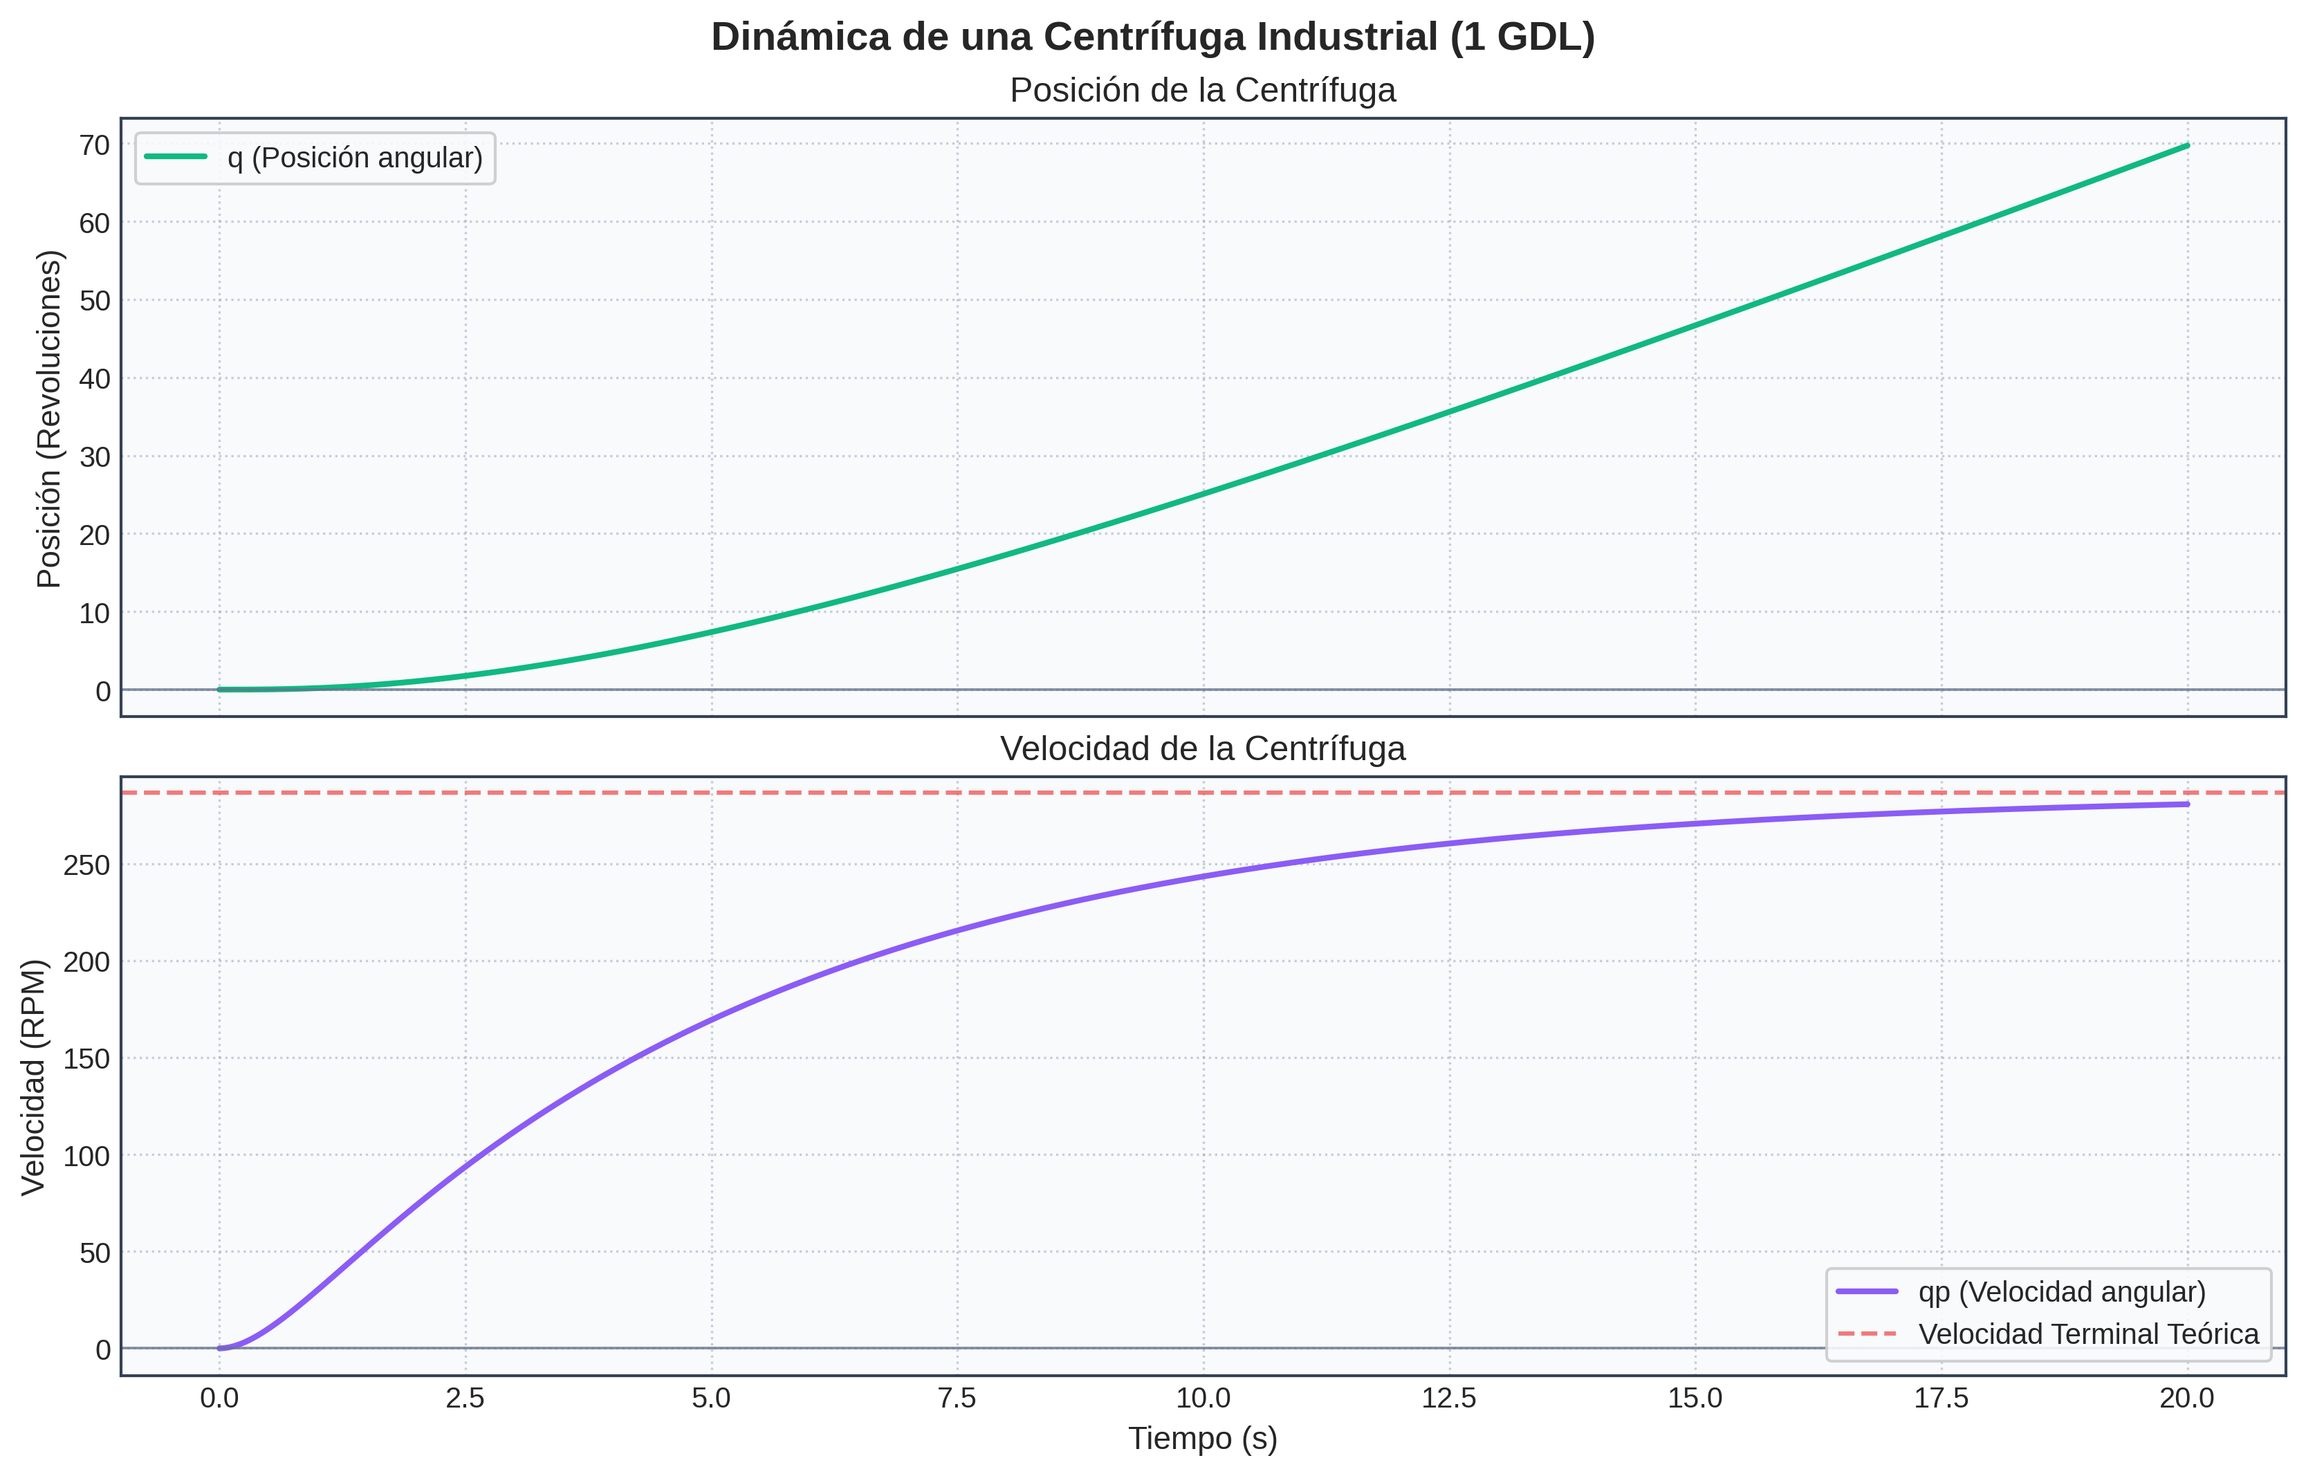
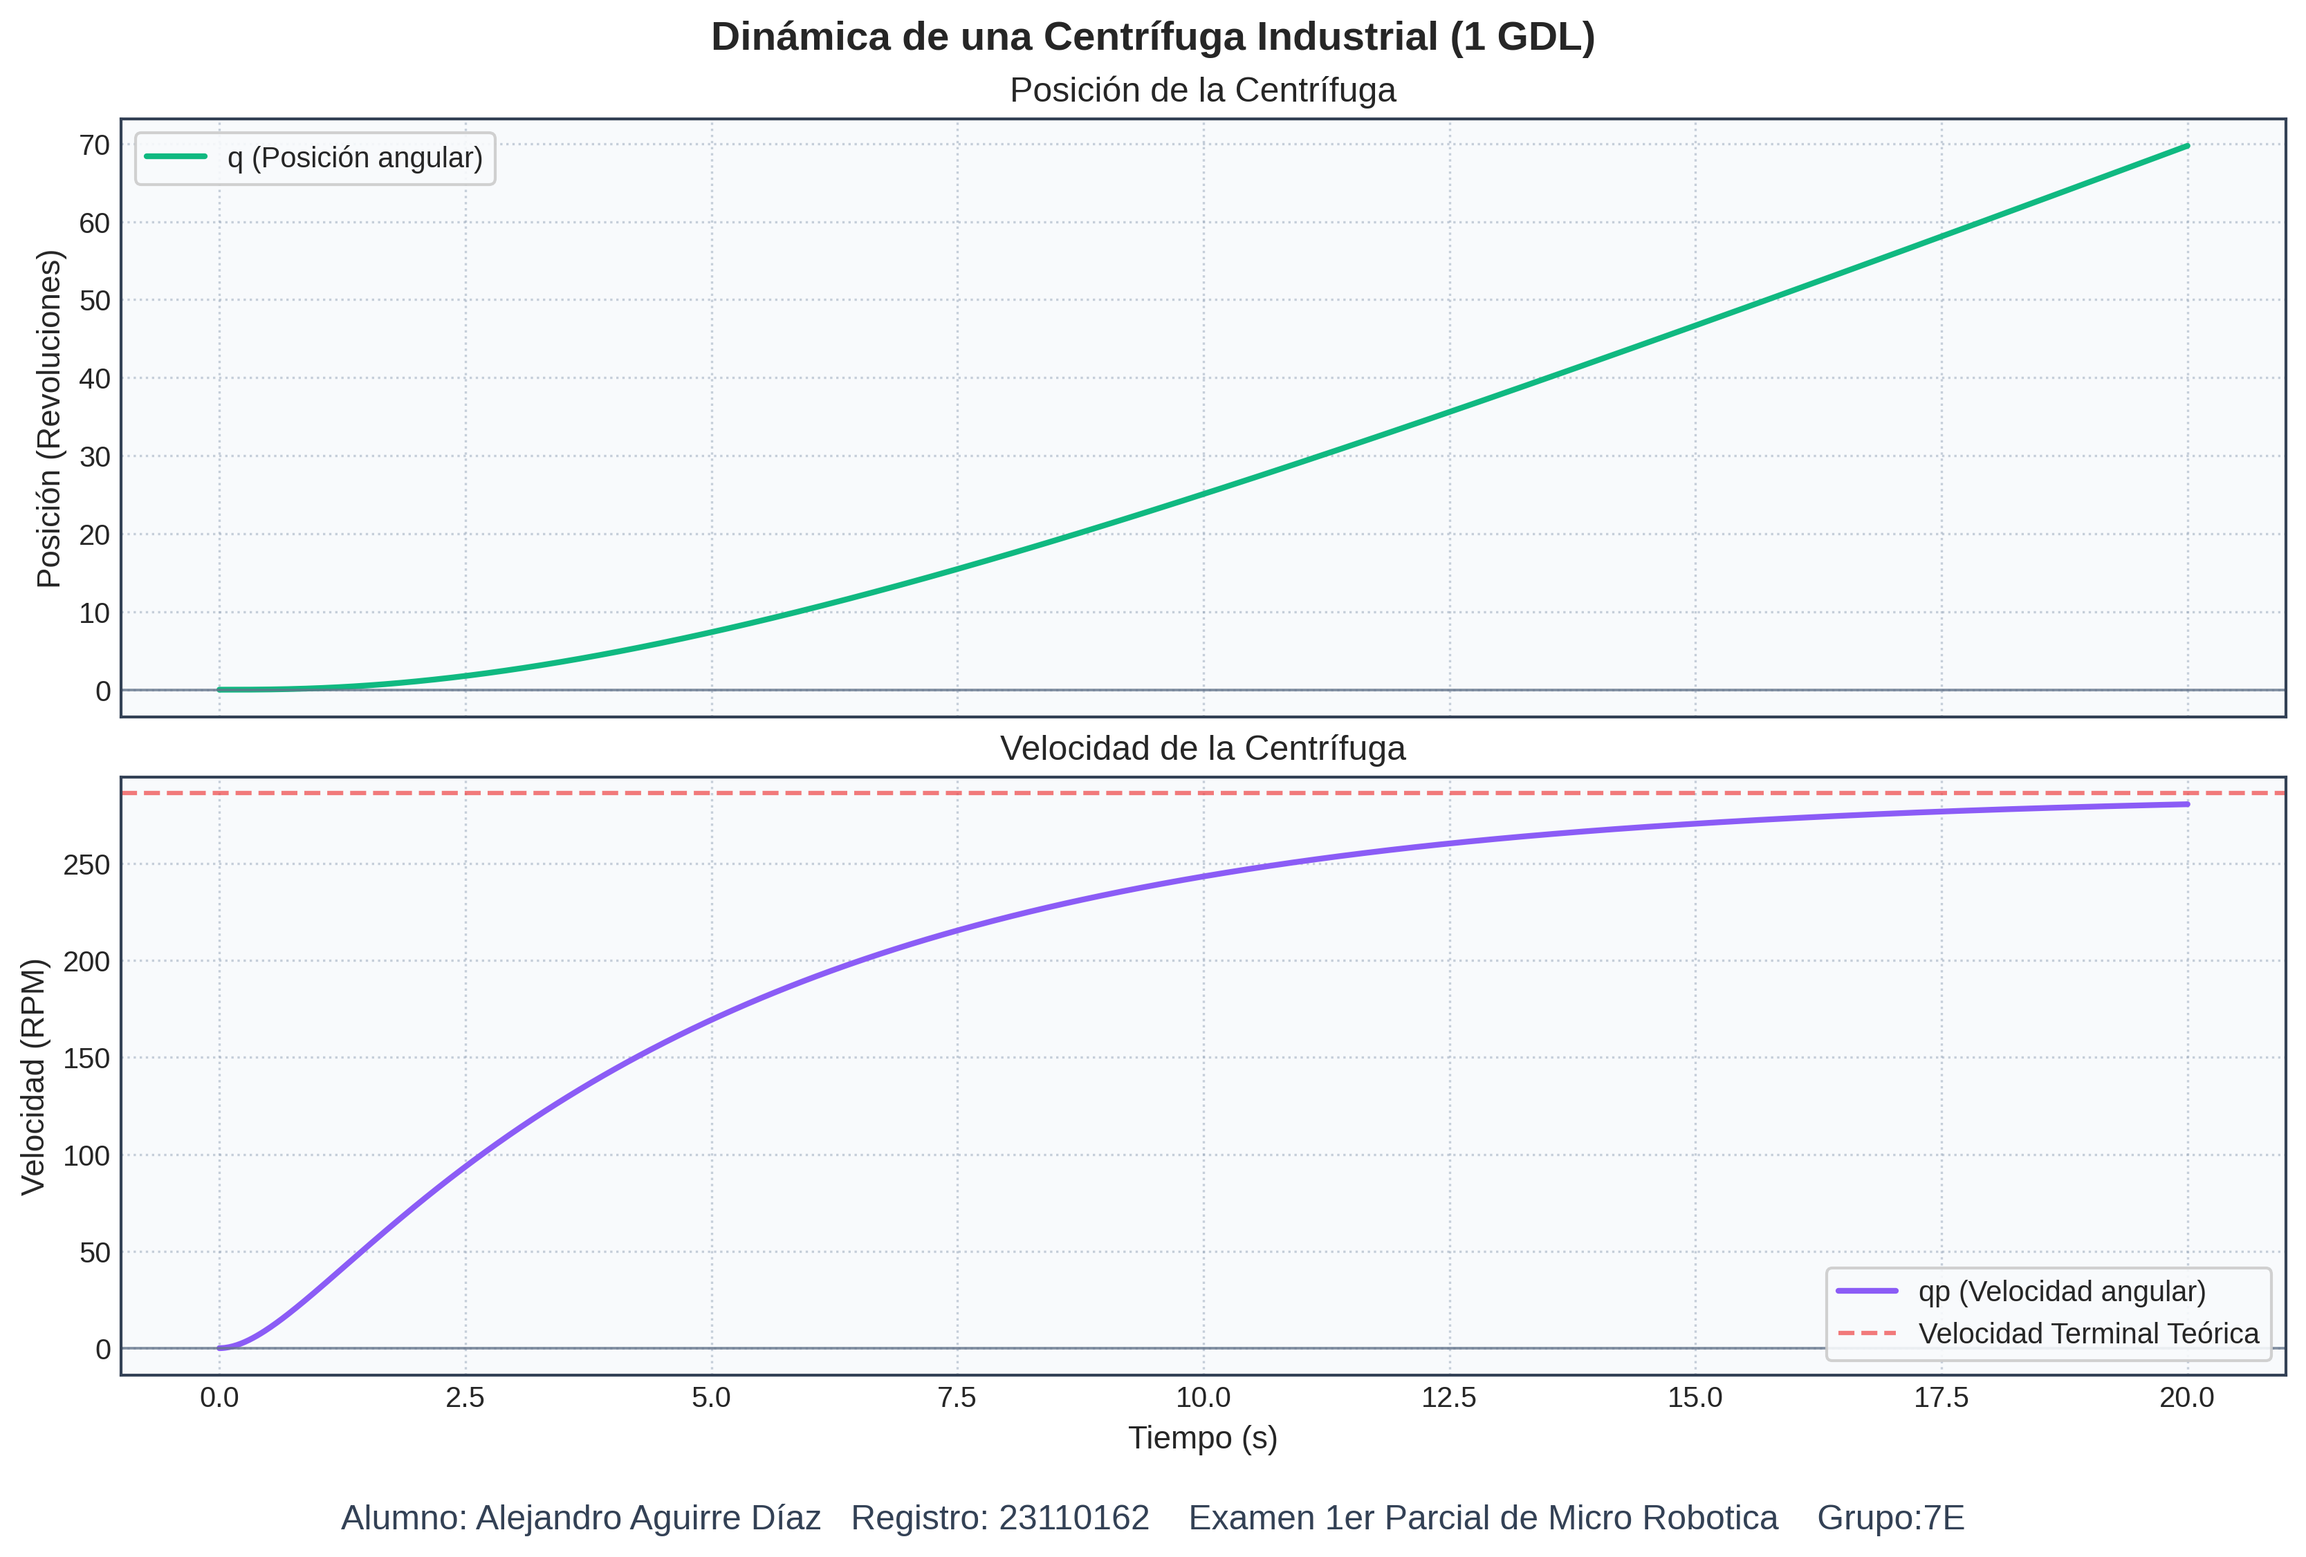
Examen 1.1

diff --git a/Examen_01/Scripts/001_Centrifuga.py b/Examen_01/Scripts/001_Centrifuga.py
@@ -24,6 +24,12 @@ def configurar_estilo_grafica():
         'legend.framealpha': 0.9,
     })
 
+
+def agregar_pie_figura(fig):
+    """Agrega datos de identificacion en la parte inferior de la figura."""
+    pie_texto = "Alumno: Alejandro Aguirre Díaz   Registro: 23110162    Examen 1er Parcial de Micro Robotica    Grupo:7E"
+    fig.text(0.5, -0.05, pie_texto, ha='center', va='bottom', fontsize=12, color='#334155')
+
 # --- 1. Modelo dinámico de la Centrífuga (1 GDL) ---
 def modelo_centrifuga(t, x):
     # Vector de estado: x[0] = posición angular (q), x[1] = velocidad angular (qp)
@@ -90,6 +96,7 @@ ejes[1].set_ylabel('Velocidad (RPM)')
 ejes[1].legend(loc='lower right')
 
 fig.suptitle('Dinámica de una Centrífuga Industrial (1 GDL)', fontsize=14, fontweight='bold')
+agregar_pie_figura(fig)
 
 # --- Guardado Automático ---
 directorio_script = os.path.dirname(os.path.abspath(__file__))

diff --git a/Examen_01/Scripts/003_RR.py b/Examen_01/Scripts/003_RR.py
@@ -25,6 +25,13 @@ def configurar_estilo_grafica():
         'legend.framealpha': 0.9,
     })
 
+
+def agregar_pie_figura(fig):
+    """Agrega datos de identificacion en la parte inferior de la figura."""
+    pie_texto = "Alumno: Alejandro Aguirre Díaz   Registro: 23110162    Examen 1er Parcial de Micro Robotica    Grupo:7E"
+    fig.text(0.5, -0.05, pie_texto, ha='center', va='bottom', fontsize=12, color='#334155')
+
+
 # --- 1. Modelo dinámico del robot 2GDL (Traducción exacta) ---
 def robot_2gdl(t, x):
     # Vector de posición y velocidad articular
@@ -114,6 +121,7 @@ ejes[1].set_ylabel('Velocidad (grados/s)')
 ejes[1].legend(loc='upper right')
 
 fig.suptitle('Dinámica del robot de transmisión directa de 2GDL', fontsize=14, fontweight='bold')
+agregar_pie_figura(fig)
 
 # --- Guardado Automático ---
 directorio_script = os.path.dirname(os.path.abspath(__file__))

diff --git a/Examen_01/Scripts/002_Cartesiano.py b/Examen_01/Scripts/002_Cartesiano.py
@@ -24,6 +24,12 @@ def configurar_estilo_grafica():
         'legend.framealpha': 0.9,
     })
 
+
+def agregar_pie_figura(fig):
+    """Agrega datos de identificacion en la parte inferior de la figura."""
+    pie_texto = "Alumno: Alejandro Aguirre Díaz   Registro: 23110162    Examen 1er Parcial de Micro Robotica    Grupo:7E"
+    fig.text(0.5, -0.05, pie_texto, ha='center', va='bottom', fontsize=12, color='#334155')
+
 # --- 1. Modelo dinámico del Robot Cartesiano 3GDL (PPP) ---
 def robot_cartesiano(t, x_estado):
     # Vector de estado: 
@@ -112,6 +118,7 @@ ejes[1].set_ylabel('Velocidad (m/s)')
 ejes[1].legend(loc='lower left')
 
 fig.suptitle('Dinámica de un Robot Cartesiano de 3 GDL (PPP)', fontsize=14, fontweight='bold')
+agregar_pie_figura(fig)
 
 # --- Guardado Automático ---
 directorio_script = os.path.dirname(os.path.abspath(__file__))

diff --git a/Examen_01/Scripts/004_RRR.py b/Examen_01/Scripts/004_RRR.py
@@ -24,6 +24,12 @@ def configurar_estilo_grafica():
         'legend.framealpha': 0.9,
     })
 
+
+def agregar_pie_figura(fig):
+    """Agrega datos de identificacion en la parte inferior de la figura."""
+    pie_texto = "Alumno: Alejandro Aguirre Díaz   Registro: 23110162    Examen 1er Parcial de Micro Robotica    Grupo:7E"
+    fig.text(0.5, -0.05, pie_texto, ha='center', va='bottom', fontsize=12, color='#334155')
+
 # --- 1. Modelo dinámico del robot 3GDL (Planar RRR) ---
 def robot_3gdl(t, x):
     # Vector de estado
@@ -128,6 +134,7 @@ ejes[1].set_ylabel('Velocidad (grados/s)')
 ejes[1].legend(loc='upper right')
 
 fig.suptitle('Dinámica de un Robot Planar de 3 GDL (RRR)', fontsize=14, fontweight='bold')
+agregar_pie_figura(fig)
 
 # --- Guardado Automático ---
 directorio_script = os.path.dirname(os.path.abspath(__file__))

diff --git a/Examen_01/README.md b/Examen_01/README.md
@@ -1,10 +1,19 @@
-# Examen 01 - Modelado dinamico de robots
+# Examen del Primer Parcial - Modelado Dinamico de Robots
 
-Este directorio dentro del repositorio MicroRobotica, contiene los 4 ejercicios del Examen del 1er parcial, en dondce para cada uno se realizo su modelado dinamico y simulacion numerica en Python. Cada script genera una figura y/o imagen en la carpeta `Graficas/`.
+## Datos del estudiante
 
-## Descripcion del examen 1er parcial
+|  |  |
+|---|---|
+| Alumno | Alejandro Aguirre Díaz |
+| Registro | 23110162 |
+| Grupo | 7E |
+| Fecha de entrega | Miercoles 18 de marzo de 2026 |
 
-Documentar y reproducir el modelo dinamico de:
+Este directorio del repositorio MicroRobotica contiene los 4 ejercicios del examen del primer parcial. En cada ejercicio se realiza el modelado dinamico y la simulacion numerica en Python para obtener sus graficas de comportamiento.
+
+## Descripcion del examen
+
+Realizar y graficar el modelo dinamico de:
 
 1. Centrifuga industrial (1 GDL)
 2. Robot cartesiano PPP (3 GDL)
@@ -133,7 +142,7 @@ $$
 
 ![Dinamica de la centrifuga industrial](Graficas/G001_Centrifuga.png)
 
-### Que se observa
+### Observaciones principales
 
 - La posicion angular crece de forma monotona, indicando giro continuo sin invertir sentido.
 - La velocidad en RPM sube rapidamente durante el transitorio y luego se acerca a un valor de equilibrio.
@@ -226,7 +235,7 @@ $$
 
 ![Dinamica del robot cartesiano PPP](Graficas/G002_Cartesiano.png)
 
-### Que se observa
+### Observaciones principales
 
 - El eje X muestra oscilaciones alrededor del origen por la fuerza sinusoidal aplicada y la amortiguacion viscosa.
 - El eje Y presenta una respuesta de crecimiento transitorio y estabilizacion progresiva, consistente con una excitacion que se activa suavemente.
@@ -315,7 +324,7 @@ $$
 
 ![Dinamica del robot RR de 2 GDL](Graficas/G003_RR.png)
 
-### Que se observa
+### Observaciones principales
 
 - Las posiciones articulares muestran oscilaciones no lineales con contenido de alta frecuencia debido a la combinacion de entradas sinusoidales.
 - Las velocidades presentan picos transitorios y variaciones acopladas entre articulaciones, reflejando la matriz de inercia dependiente de la configuracion.
@@ -399,7 +408,7 @@ $$
 
 ![Dinamica del robot RRR planar de 3 GDL](Graficas/G004_RRR.png)
 
-### Que se observa
+### Observaciones principales
 
 - El robot inicia en una posicion de alta energia potencial y evoluciona bajo gravedad hacia configuraciones de menor energia.
 - Las velocidades articulares aumentan en el transitorio inicial y luego decrecen por el efecto disipativo de la friccion viscosa.
@@ -413,5 +422,7 @@ $$
 2. Cartesiano PPP: comportamiento desacoplado por eje con compensacion de gravedad en $z$.
 3. RR: dinamica acoplada no lineal con inercia dependiente de configuracion, gravedad y friccion mixta.
 4. RRR: caida libre no lineal acoplada con disipacion por friccion viscosa.
+
+Este documento organiza de forma uniforme el desarrollo matematico, la simulacion y la interpretacion de resultados para los cuatro sistemas roboticos solicitados en el examen.
 
 
